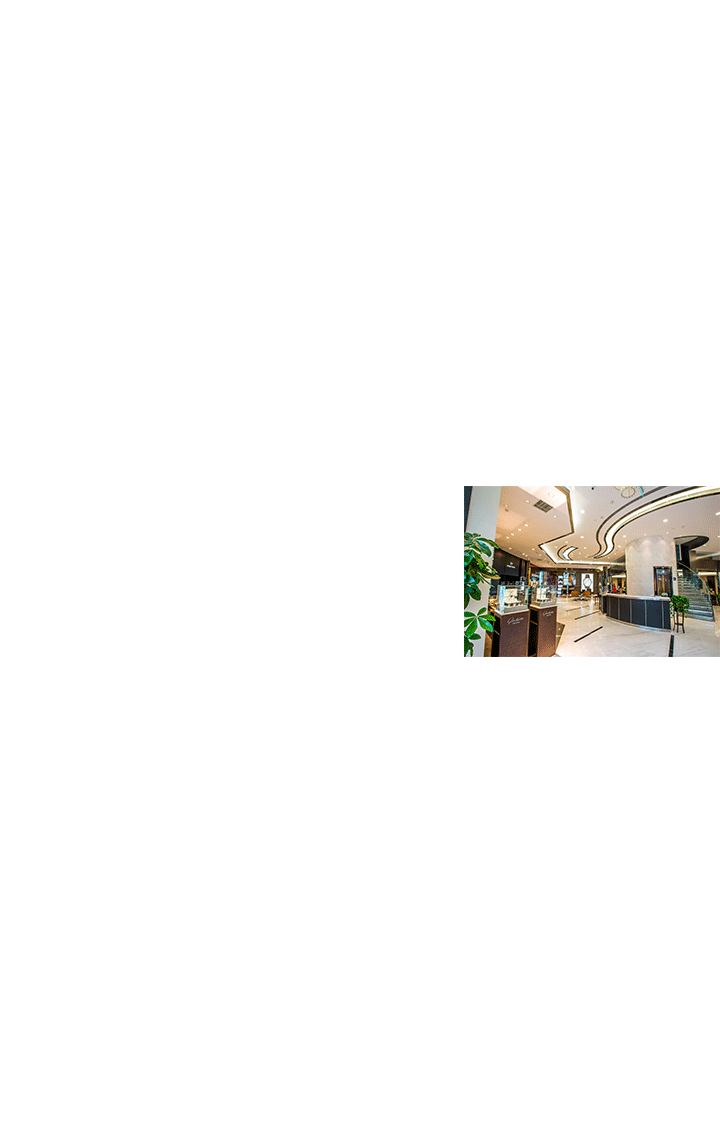
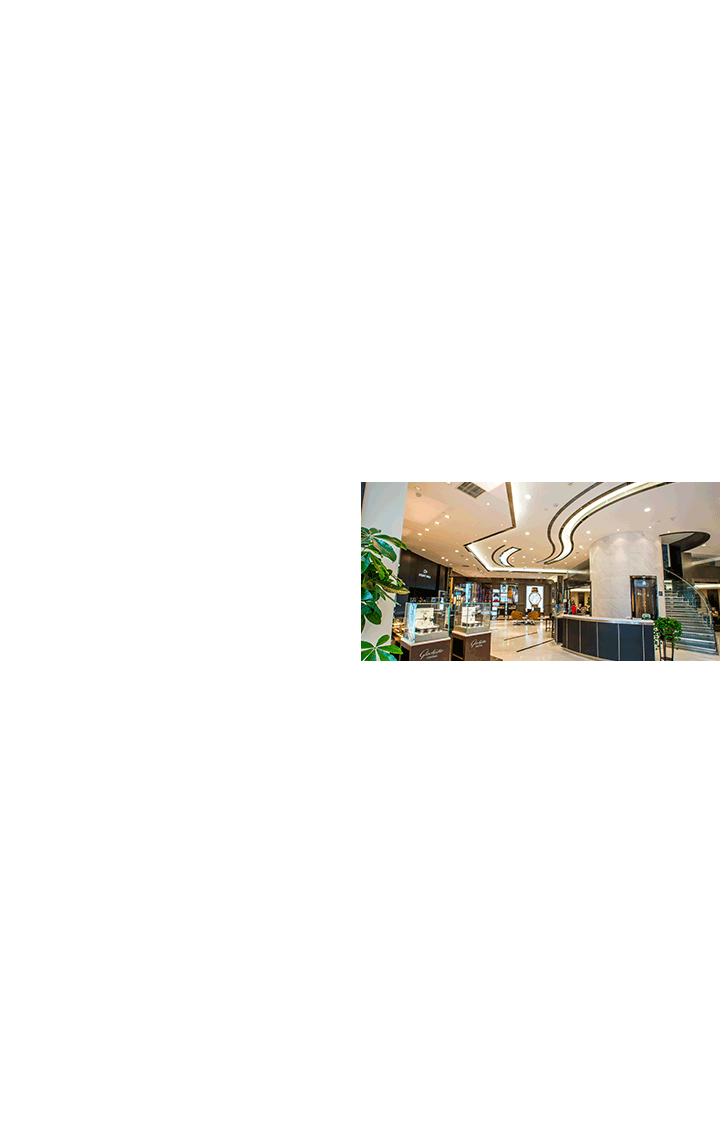
kkk

Changed region(s): [[0.4889, 0.4005, 1.0, 0.5854]]

diff --git a/primeTime/index.html b/primeTime/index.html
@@ -307,8 +307,6 @@
 <!--           <div class="page brandBgRed" >
               <div class="content">
                 <div class="article text-left ">
-                  <p>我们与国际顶级品牌供应商良好而紧密的合作，其中包括：</p>
-                  <p>斯沃琪集团（Swatch Group)、路威酩轩集团（LVMH Group）、历峰集团（Richemont Group）、劳力士集团（Rolex Group）、开云集团（Kering  Group）等。在遍布中国的百余个城市中拥有约400家批发客户、分销及独家分销多个国际知名品牌手表，其中品牌包括：豪雅(TAG Heuer)、真力时（Zenith）、宝格丽（Bulgari）及汉米尔顿（Hamilton）、雪铁纳（Certina）、宝曼（Balmain）、天梭（Tissot）、美度（Mido）、Ck等。</p>
 
                 </div>
               </div>
@@ -317,10 +315,19 @@
               <div class="content">
                 <div class="article brandGrey"></div>
               </div>
-          </div> 
+          </div> -->
           <div class="page skyBegin " >
               <div class="content">
-                <div class="article brandGrey"></div>
+                <div class="photo">
+                  <div class="brandGrey text-left gradientCaptionLeft" style="font-size:80%;">
+                    <p>我们与国际顶级品牌供应商良好而紧密的合作，其中包括：</p>
+                    <p>斯沃琪集团（Swatch Group)、路威酩轩集团（LVMH Group）、历峰集团（Richemont Group）、劳力士集团（Rolex Group）、开云集团（Kering  Group）等。在遍布中国的百余个城市中拥有约400家批发客户、分销及独家分销多个国际知名品牌手表，其中品牌包括：豪雅(TAG Heuer)、真力时（Zenith）、宝格丽（Bulgari）及汉米尔顿（Hamilton）、雪铁纳（Certina）、宝曼（Balmain）、天梭（Tissot）、美度（Mido）、Ck等。</p>
+
+
+                  </div>
+
+                </div>
+
               </div>
           </div>
           <div class="page bgSky" >
@@ -335,7 +342,7 @@
                 <div class="article brandGrey"></div>
               </div>
           </div>
-          <div class="page">
+          <!--<div class="page">
               <div class="content">
                 <div class="article brandGrey"></div>
               </div>

diff --git a/primeTime/css/main.css b/primeTime/css/main.css
@@ -460,13 +460,13 @@ filter: progid:DXImageTransform.Microsoft.gradient( startColorstr='#e2e2e2', end
   width: 100%;
   height: 100%;
   z-index: 3;
-background: rgba(255,255,255,0.6);
-background: -moz-linear-gradient(top, rgba(255,255,255,0.6) 0%, rgba(255,255,255,0.8) 50%, rgba(255,255,255,0.6) 100%);
-background: -webkit-gradient(left top, left bottom, color-stop(0%, rgba(255,255,255,0.6)), color-stop(50%, rgba(255,255,255,0.8)), color-stop(100%, rgba(255,255,255,0.6)));
-background: -webkit-linear-gradient(top, rgba(255,255,255,0.6) 0%, rgba(255,255,255,0.8) 50%, rgba(255,255,255,0.6) 100%);
-background: -o-linear-gradient(top, rgba(255,255,255,0.6) 0%, rgba(255,255,255,0.8) 50%, rgba(255,255,255,0.6) 100%);
-background: -ms-linear-gradient(top, rgba(255,255,255,0.6) 0%, rgba(255,255,255,0.8) 50%, rgba(255,255,255,0.6) 100%);
-background: linear-gradient(to bottom, rgba(255,255,255,0.6) 0%, rgba(255,255,255,0.8) 50%, rgba(255,255,255,0.6) 100%);
+background: rgba(255,255,255,0.75);
+background: -moz-linear-gradient(top, rgba(255,255,255,0.75) 0%, rgba(255,255,255,0.88) 50%, rgba(255,255,255,0.75) 100%);
+background: -webkit-gradient(left top, left bottom, color-stop(0%, rgba(255,255,255,0.75)), color-stop(50%, rgba(255,255,255,0.88)), color-stop(100%, rgba(255,255,255,0.75)));
+background: -webkit-linear-gradient(top, rgba(255,255,255,0.75) 0%, rgba(255,255,255,0.88) 50%, rgba(255,255,255,0.75) 100%);
+background: -o-linear-gradient(top, rgba(255,255,255,0.75) 0%, rgba(255,255,255,0.88) 50%, rgba(255,255,255,0.75) 100%);
+background: -ms-linear-gradient(top, rgba(255,255,255,0.75) 0%, rgba(255,255,255,0.88) 50%, rgba(255,255,255,0.75) 100%);
+background: linear-gradient(to bottom, rgba(255,255,255,0.75) 0%, rgba(255,255,255,0.88) 50%, rgba(255,255,255,0.75) 100%);
 filter: progid:DXImageTransform.Microsoft.gradient( startColorstr='#ffffff', endColorstr='#ffffff', GradientType=0 );
 }
 #logo{
@@ -558,7 +558,7 @@ filter: progid:DXImageTransform.Microsoft.gradient( startColorstr='#fefefe', end
 .photo .caption {
   position: absolute;
   z-index: 2;
-  font-size: 75%;
+  font-size: 85%;
 }
 .photo .caption h3 {
   padding:0em ;
